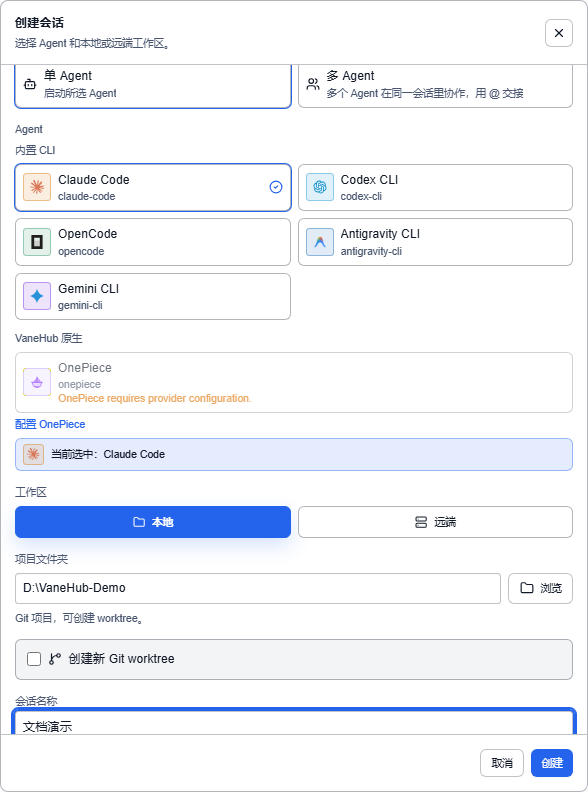
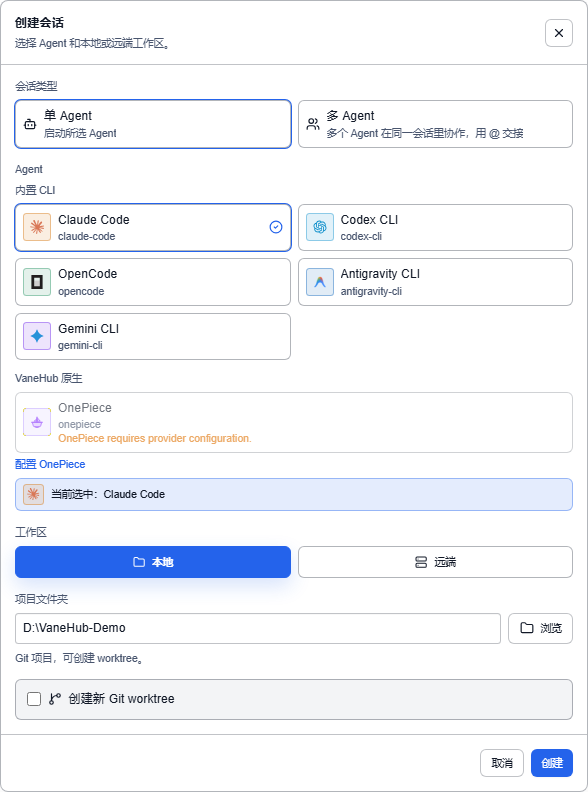
test: stabilize documentation screenshots

diff --git a/tests/docs/documentation-screenshots.spec.ts b/tests/docs/documentation-screenshots.spec.ts
@@ -83,10 +83,16 @@ async function fillCreateSessionDialog(page: Page, locale: Locale): Promise<Loca
   await expect(
     dialog.getByRole("heading", { name: text(locale, "创建会话", "Create Session") }),
   ).toBeVisible();
+  await expect(
+    dialog.getByText(text(locale, "会话类型", "Session Type"), { exact: true }),
+  ).toBeVisible();
   await dialog.locator('input[placeholder*="code"]').fill("D:\\VaneHub-Demo");
   await dialog
     .getByPlaceholder(text(locale, "新会话", "New session"))
     .fill(text(locale, "文档演示", "Documentation demo"));
+  await dialog
+    .locator(":scope > .min-h-0.overflow-y-auto")
+    .evaluate((scrollRegion) => scrollRegion.scrollTo({ top: 0 }));
   return dialog;
 }
 
